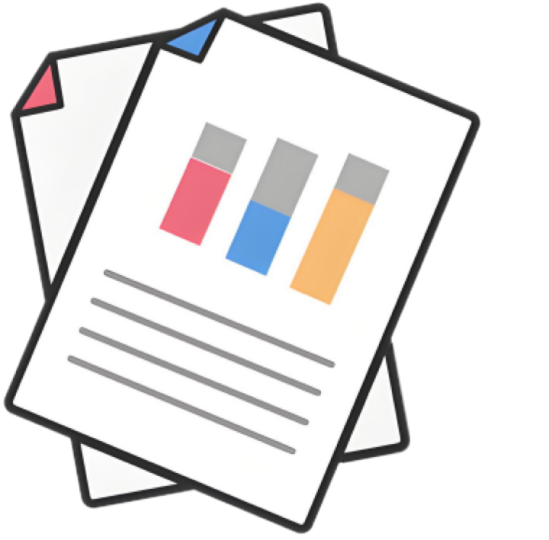
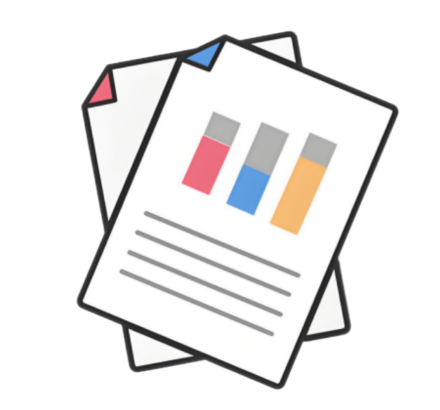
Add files via upload

Changed region(s): [[0.0, 0.0, 0.9159, 0.9951], [0.2955, 0.6732, 0.3545, 0.7024]]

diff --git a/index.html b/index.html
@@ -215,7 +215,7 @@
         }
 
         .subtitle {
-            font-size: 2rem;
+            font-size: 2.2rem;
             opacity: 0;
             text-shadow: 1px 1px 2px rgba(0,0,0,0.7);
             animation: fadeInUp2 1s ease-out 1s forwards;
@@ -465,14 +465,14 @@
   width: auto;             /* 不要再占满 100% 宽度，改为根据文本自适应 */
   white-space: nowrap;     /* 保持不换行 */
   margin: 0 auto 40px;     /* 上 0，左右 auto（水平居中），下 40px */
-  font-size: 2.8rem;
+  font-size: 3.0rem;
   line-height: 1.4;
   color: #000;
   font-weight: 600;
 }
 
 .page-2-5 .final-text {
-  font-size: 2.8rem;
+  font-size: 3.0rem;
   color: #000;
   font-weight: 600;
   margin: 20px 0 30px;
@@ -581,7 +581,7 @@
     }
 }
         .page-3 .section-title {
-            font-size: 3.2rem;
+            font-size: 3.0rem;
             color: #000000;
             margin-bottom: 50px;
             text-align: center;
@@ -781,7 +781,7 @@
 
         .page-5 .page5-title {
         color:  #000000;;        /* 标题可以用红色或你想要的色 */
-        font-size: 3.2rem;
+        font-size: 3.0rem;
         font-weight: 700;
         text-align: center;
         margin: 40px 0;
@@ -832,7 +832,7 @@
         }
 
         .page-5 .main-title {
-            font-size: 52px;
+            font-size: 45px;
             font-weight: 900;
             background: linear-gradient(135deg, #000000, #000000, #000000);
             -webkit-background-clip: text;
@@ -1195,7 +1195,7 @@
 
     /* 文本区 */
     .page-6 .text-section {
-        max-width: 800px;
+        max-width: 1000px;
         margin: 0 auto 40px;
         line-height: 1.8;
         color: #333;
@@ -1204,7 +1204,7 @@
 
     /* 大标题（第一行） */
     .page-6 .text-section > h2 {
-        font-size: 2.6rem;
+        font-size: 3.0rem;
         font-weight: 600;
         margin-bottom: 16px;
         color: hwb(0 0% 100%);
@@ -1289,7 +1289,7 @@
     /* 标题特殊样式 */
    
     .page-6 .text-section > h2.page6-text {
-    font-size: 2.6rem;      /* 你原来的大小 */
+    font-size: 3.0rem;      /* 你原来的大小 */
     font-weight: 600;       /* 加粗 */
     color: #000;            /* 你原来的颜色 */
     margin-bottom: 30px;    /* 你原来的间距 */
@@ -1373,7 +1373,7 @@
         }
 
         .page7-title {
-            font-size: 3.2rem;
+            font-size: 3.0rem;
             font-weight: 700;
             color: #000000;
             margin-bottom: 30px;
@@ -1617,7 +1617,7 @@
         }
 
         .chart-title {
-            font-size: 2rem;
+            font-size: 1.6rem;
             font-weight: 600;
             color: #000000;
             text-align: center;
@@ -1669,7 +1669,7 @@
 
 /* 标题 */
 .page8-title {
-    font-size: 3.2rem; font-weight:700; color:#000;
+    font-size: 3.0rem; font-weight:700; color:#000;
     text-align:center; margin-bottom:20px;
     opacity:0; transform:translateY(30px);
     transition:all 0.8s ease;
@@ -1917,7 +1917,7 @@
     transition:all 1s ease;
 }
 .wordcloud-section_1.show { opacity:1; transform:translateY(0); }
-.wordcloud-title { font-size:2.2rem; font-weight:600; color:#2c3e50; margin-bottom:30px; }
+.wordcloud-title { font-size:3.0rem; font-weight:600; color:#2c3e50; margin-bottom:30px; }
 .wordcloud-image { max-width:100%; height:auto; border-radius:15px; box-shadow:0 15px 40px rgba(0,0,0,0.1); }
 
 /* —— 过渡文本 —— */
@@ -2166,7 +2166,7 @@
         }
 
         .page9-title {
-            font-size: 3.1rem;
+            font-size: 3.0rem;
             font-weight: 800;
             color: #000000;
             margin-bottom: 40px;
@@ -3897,26 +3897,35 @@ input[type="text"], input[type="email"], textarea,
   
         <!-- 中列 · 解读文字 -->
         <div class="analysis-center">
-          <p class="story-paragraph1" data-scroll>
-            数据显示，2018-2024 年间，医保谈判相关舆情呈现<strong>“中性主导、正向增强、负面渐显”</strong>的总体特征。
+        <p class="story-paragraph1" data-scroll>
+           数据显示，2018-2024 年间，医保谈判相关舆情呈现
+           <strong>
+            <br>“中性主导、正向增强、负面渐显”</strong>的总体特征。<br>
           </p>
           <p class="story-paragraph1" data-scroll>
-            在早期（2018-2019），<em>“中性表达”</em>占比超过七成，舆论以观望与信息获悉为主。
+            在早期（2018-2019），舆论以观望与信息获悉为主，
+            <br><em>“ 中性表达 ”</em>占比超过七成。<br>
           </p>
           <p class="story-paragraph1" data-scroll>
-            自 2020 年起，谈判机制趋于稳定，<em>“积极支持”</em>与<em>“理性认可”</em>明显上升，2020-2021 年尤为突出。
+            2020-2021年间，由于谈判机制趋于稳定，
+                <br> <em>“ 积极支持 ”</em> 与 <em>“ 理性认可 ”</em> 明显上升。
           </p>
           <p class="story-paragraph1" data-scroll>
-            2022 年出现关键拐点：谈判期内<em>“理性认可”</em>首次超过中性，占比迅速攀升，公众参与感增强。
+            2022 年出现关键拐点：谈判期内<em>“ 理性认可 ”</em> 首次超过中性，
+            <br> 占比迅速攀升，公众参与感增强。
           </p>
           <p class="story-paragraph1" data-scroll>
-            2023 年，<em>“担忧质疑”</em>情绪维持约 7% 的高位，同时谈判期<em>“中性表达”</em>再度回升，显示更理性谨慎的观望态度。
+            2023 年，<em>“ 担忧质疑 ”</em> 情绪维持约 7% 的高位，
+            <br>同时谈判期<em>“ 中性表达 ”</em> 再度回升，呈现更理性谨慎的态度。
           </p>
           <p class="story-paragraph1" data-scroll>
-            到 2024 年，<em>“担忧质疑”</em>进一步升至 11.9%，表明公众对公平性与覆盖范围的敏感度显著提高。
+             2024 年，<em>“ 担忧质疑 ”</em> 进一步升至 11.9%，
+            <br>表明公众对公平性与覆盖范围的敏感度显著提高。
           </p>
           <p class="story-paragraph1" data-scroll>
-            总体来看，随着制度演进，<em>“中性表达”</em>占比下降，而<em>“理性认可”</em>与<em>“担忧质疑”</em>成为后期舆情的两大变量，医保谈判进入更广泛的公众对话时代。
+            总体来看，随着医保谈判的不断演进，
+            <br><em>“ 中性表达 ”</em>占比下降，而<em>“ 理性认可 ”</em> 与 <em>“ 担忧质疑 ”
+            <br> </em>成为后期舆情两大变量，医保谈判进入更广泛的公众对话时代。
           </p>
         </div>
   
@@ -4847,12 +4856,12 @@ input[type="text"], input[type="email"], textarea,
         avatar: 'expert1.jpg' // 第一个专家头像
     },
     {
-        text: '"2块4毛3，能看出你们的诚意。"',
+        text: '"我们能不能商量一下，跟我们领导打个电话。"',
         speaker: 'left',
         avatar: 'company1.jpg' // 企业代表头像
     },
     {
-        text: '"我们专家组也回个价，2块1毛1。"',
+        text: '"我还是想强调一次，因为这个群体太需要我们的爱心，我希望你们的报价如果能进的话，让短缺药通过我们的国谈政策不再短缺，请报价。"',
         speaker: 'right',
         avatar: 'expert2.jpg' // 第二个专家头像
     }
@@ -5202,7 +5211,7 @@ input[type="text"], input[type="email"], textarea,
            title: {
              text: '医保谈判成效数据概览（2018—2024）',
              left: 'center',
-             textStyle: { fontSize: 20, fontWeight: 600 },
+             textStyle: { fontSize: 25, fontWeight: 600 },
              subtextStyle: { fontSize: 14, color: '#666' }
            },
            color: ['#afd3e7','#fca3a3','#fdcd8c','#d0bbdb'],
@@ -5879,7 +5888,7 @@ input[type="text"], input[type="email"], textarea,
         left: 'center', 
         top: 20,
         textStyle: { 
-          fontSize: 24, 
+          fontSize: 25, 
           fontWeight: 'bold',
           color: '#333'
         },
